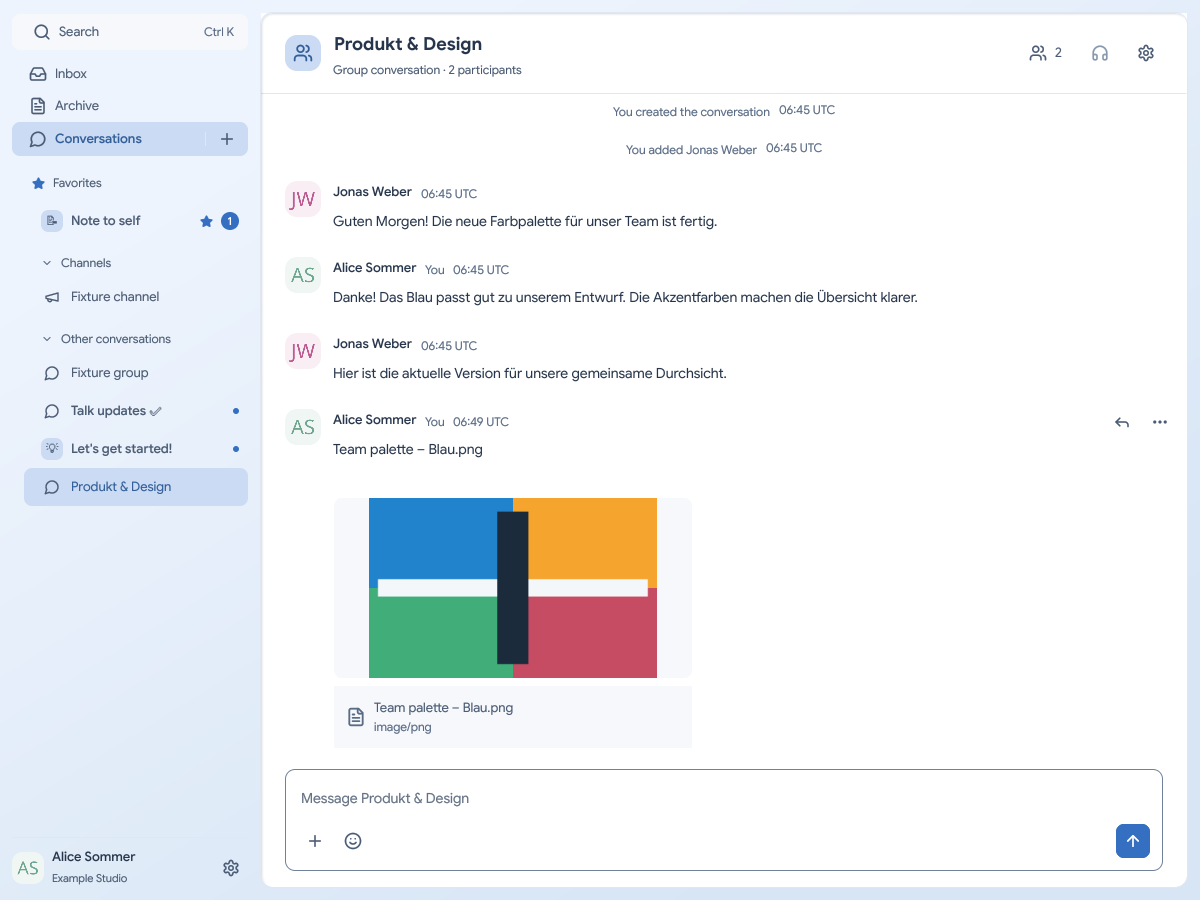
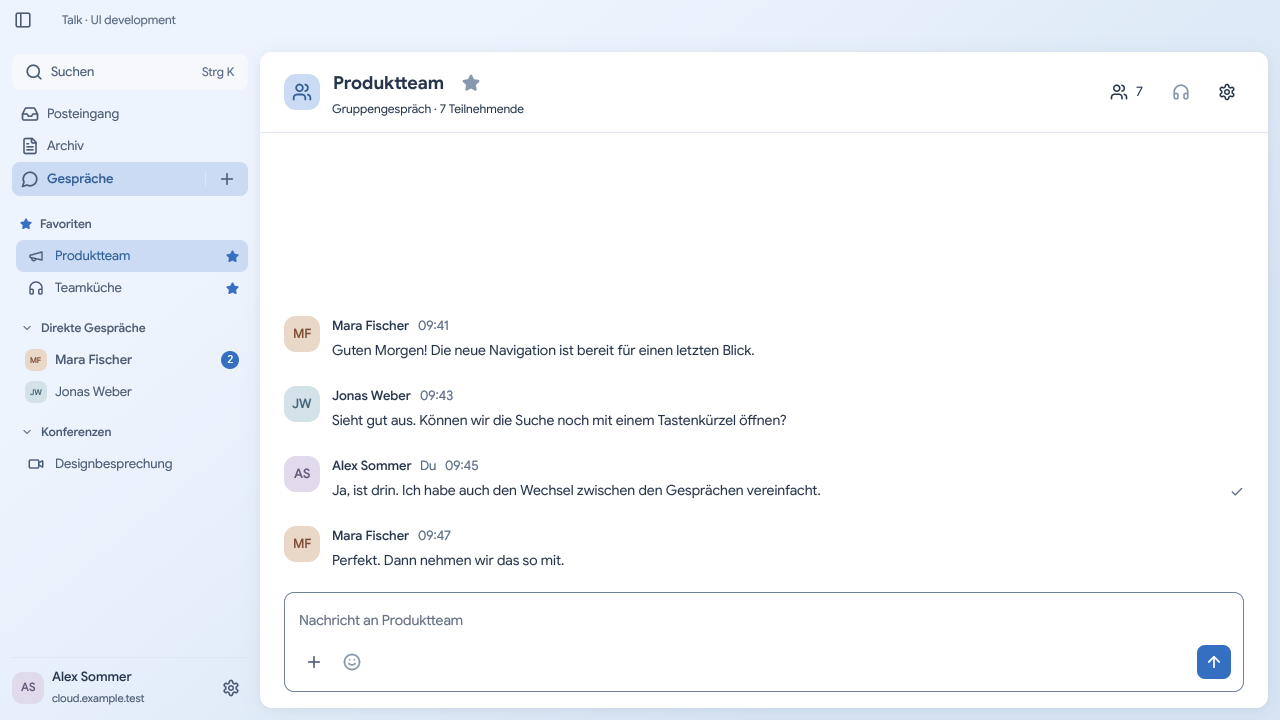
Refresh native screenshot and harden fresh-environment checks

diff --git a/tools/ui/capture.py b/tools/ui/capture.py
@@ -87,10 +87,24 @@ def capture(args, before_runtime_cleanup=None):
                             raise RuntimeError(f"No visible native window: {label}")
                         first_window_ms = round((time.monotonic() - started) * 1000, 2)
                         run(["xdotool", "windowfocus", "--sync", xid], env)
+                        run(["xdotool", "windowmove", "--sync", xid, "0", "0"], env)
                         run(["xdotool", "windowsize", "--sync", xid, str(args.width), str(args.height)], env)
-                        time.sleep(2.0)
+                        run(["xdotool", "mousemove", "--sync", "1590", "1190"], env)
                         screenshot = out / f"{label}.png"
-                        run(["import", "-window", xid, str(screenshot)], env)
+                        # A visible X11 window can precede its first Vulkan frame,
+                        # especially during cold shader compilation on software GPUs.
+                        # Never report an empty framebuffer as a successful smoke test.
+                        paint_deadline = time.monotonic() + 30
+                        while True:
+                            if app.poll() is not None:
+                                raise RuntimeError(f"Native app exited before painting: {label}")
+                            run(["import", "-window", xid, str(screenshot)], env)
+                            colors = int(run(["identify", "-format", "%k", str(screenshot)], env).stdout)
+                            if colors > 16:
+                                break
+                            if time.monotonic() >= paint_deadline:
+                                raise RuntimeError(f"Native window stayed blank: {label}")
+                            time.sleep(0.5)
                         status = Path(f"/proc/{app.pid}/status").read_text()
                         memory = {line.split(":", 1)[0]: line.split(":", 1)[1].strip() for line in status.splitlines() if line.startswith(("VmRSS:", "VmHWM:", "Threads:"))}
                         manifest["captures"].append({"scenario": scenario, "appearance": appearance, "theme": theme, "image": screenshot.name,

diff --git a/tests/contracts/run_boundary_fixtures.py b/tests/contracts/run_boundary_fixtures.py
@@ -51,7 +51,10 @@ with tempfile.TemporaryDirectory(prefix='identity-ui-fixtures-') as temporary:
     env = dict(os.environ, CARGO_TARGET_DIR=str(scratch / 'target'), PYTHONDONTWRITEBYTECODE='1', CARGO_TERM_COLOR='never')
 
     def run(root, argv):
-        result = subprocess.run(argv, cwd=root, env=env, capture_output=True, text=True, timeout=180)
+        # The positive consumer builds the adapter graph from a cold target directory.
+        # Allow that compilation on ordinary hosted runners; lexical checks stay short.
+        timeout = 600 if argv[0] == "cargo" else 60
+        result = subprocess.run(argv, cwd=root, env=env, capture_output=True, text=True, timeout=timeout)
         return {
             'argv': argv, 'exit_code': result.returncode,
             'stdout': result.stdout.replace(str(scratch), '[fixture-temp]').replace(str(candidate), '[candidate]'),

diff --git a/apps/desktop/src/settings/permissions/screen.rs b/apps/desktop/src/settings/permissions/screen.rs
@@ -19,7 +19,7 @@ pub(super) fn check(
 
 async fn read_version() -> Result<u32, ashpd::Error> {
     let portal = Screencast::new().await?;
-    // ashpd 0.12.3's constructor defaults some failed version reads to 1.
+    // ashpd's constructor defaults some failed version reads to 1.
     // Require a successful typed property read; constructing a proxy proves nothing.
     portal
         .get_property::<u32>("version")

diff --git a/AGENTS.md b/AGENTS.md
@@ -1,32 +1,43 @@
 # Contributor and agent rules
 
-Start with [contributing](CONTRIBUTING.md), the [product contracts](docs/product/README.md), [quality requirements](docs/quality/index.md) and [architecture](docs/architecture/README.md). Explicit user decisions govern the assigned work; surface conflicts with published contracts instead of silently weakening them.
+Read [Contributing](CONTRIBUTING.md), [development](docs/development.md) and
+[architecture](docs/architecture/README.md). Explicit user instructions govern the
+assigned task. Product and security contract changes must be deliberate and visible.
 
 ## Engineering
 
-- Give each consequential policy or resource one cohesive owner and a small interface. Keep protocol details, credential storage, persistence transactions, timers and media internals behind that owner. Extend an existing logical module before adding facade layers, generic event buses or feature-per-crate scaffolding.
-- GPUI presentation consumes bounded snapshots and typed intents/results/errors. Views perform no network, credential-store, database or media I/O and retain no secrets. Keep account, host, conversation, runtime and call scopes explicit; an obsolete completion cannot confer authority or overwrite a newer state. Media frames stay out of chat/event serialization.
-- Specify finite capacity, lifetime, cancellation and overload behavior for every queue, cache and asynchronous operation. Bound work before allocation; page and virtualize collections. Cancellation must account for ongoing effects and cleanup, not merely drop a UI handle. Preserve durable work and required state transitions under overload.
-- Model meaningful states and error outcomes explicitly. Propagate actionable failures to the owning layer with safe context; handle expected cancellation deliberately. Avoid panics on external input and unchecked indexing. Unsupported or unconfigured paths must say so; stubs cannot return success. Keep correctness assertions and required behavior intact when optimizing.
-- Prefer native OS credential stores, with an explicit durable **unencrypted**, private per-user file fallback. Normal sign-in must persist the account, as specified in [accounts](docs/product/accounts.md). Preserve access controls and honest recovery/cleanup outcomes; do not replace this requirement with mandatory application encryption or OS-only persistence.
-- Treat visible focus, keyboard behavior, text input and semantic accessibility as separate obligations. Follow [desktop requirements](docs/product/desktop-and-accessibility.md), including English, German and Spanish UI; a styled control or toolkit experiment does not establish accessible product behavior.
+- Give each consequential resource one owner and a small interface. Extend existing
+  modules before adding facade layers or generic event buses.
+- GPUI views consume bounded snapshots and typed intents. Keep network, credential,
+  database and media I/O behind their owners; retain no secrets in presentation.
+- Preserve account, conversation, runtime and call scopes. Stale completions cannot
+  restore authority or overwrite newer state. Media frames stay out of chat serialization.
+- Bound capacity, lifetime, cancellation and overload for queues, caches and asynchronous
+  work. Preserve durable intents and required state transitions under overload.
+- Model errors and unsupported states honestly; stubs cannot return success. Avoid
+  panics on external input and preserve assertions when optimizing.
+- Normal sign-in persists accounts, preferring native credential storage with an explicit
+  durable **unencrypted private-file** fallback. Preserve [account](docs/product/accounts.md)
+  and [security](docs/quality/security.md) contracts; never silently migrate providers.
+- Keep focus, keyboard behavior, text input and semantic accessibility distinct. Follow
+  [desktop requirements](docs/product/desktop-and-accessibility.md), including en/de/es UI.
 
-## Scope and verification
+## Verification and documentation
 
-- Use the [development guide](docs/development.md) for prerequisites and scoped commands. Respect the selected toolchain, dependency/feature pins and architecture checks; do not alter them to make an example pass.
-- Choose checks that exercise changed behavior and failure/lifetime invariants. Start with the smallest relevant target, use deterministic reproduction, and broaden only for shared impact or unresolved risk. Trivial reversible edits do not need tests that restate their implementation. Report exact inputs, commands, outcomes and unrun checks.
-- Keep Linux runtime tests distinct from Windows/macOS compile-only CI checks. Compilation, synthetic fixtures and software rendering do not qualify native integrations, accessibility or performance. Final user testing is reserved for the final prepared candidate after the assigned agent-side work; do not ask the user to test intermediate increments.
-- Use proportionate checks and follow the explicit task owner’s review scope under the [verification contract](docs/quality/verification.md). Routine documentation or settings work does not automatically require another review loop. Author checks alone do not authorize product/release claims. Handoffs identify changed behavior, source identity, affected contracts, evidence limits and remaining work.
+Use the pinned toolchain, exact dependencies and lockfile. Choose checks that exercise
+changed behavior and failure/lifetime invariants. Linux runtime checks and Windows/macOS
+compilation prove different things; neither synthetic fixtures nor compilation establish
+native integration, interoperability or performance. Report actual checks and limitations.
+Do not request intermediate user testing; prepare the final candidate first.
 
-## Documentation and public hygiene
-
-- When behavior changes, maintain the relevant user/developer contracts. Specifications describe intended behavior and acceptance; high-level architecture describes responsibilities, boundaries and data flow. Record concise actual limitations in [known limitations](docs/limitations.md), without duplicating a project diary in contributor rules.
-- Put nonobvious implementation reasons, invariants and tradeoffs beside the relevant code or in its doc comments. Preserve useful API documentation and comments; avoid separate implementation-decision documents and mandatory status/ADR churn for every internal detail. Keep needed historical evidence in durable private storage outside normal contributor documentation; public docs are not a task ledger or report archive.
-- Release notes list only changes since the previous version. Link to the separate installation guide and known limitations instead of repeating setup steps, the full feature inventory or outstanding work.
-- Write public documentation in English. Use NextCloud as the project brand and describe the client in its team/company context. Preserve the project's [EUPL-1.2 license](LICENSE) and third-party terms/provenance. Keep secrets, production data, private environment paths and sensitive raw traces out of public artifacts; use synthetic fixtures and follow [SECURITY.md](SECURITY.md).
+Keep documentation in English, use NextCloud as the project brand and maintain
+[known limitations](docs/limitations.md) when supported behavior changes. Put implementation
+rationale beside code and task history in issues, PRs or Git history. Do not add status
+ledgers, per-task reports or mandatory ADR churn. Preserve EUPL-1.2, third-party licenses
+and provenance. Keep secrets, production data and private environment paths out of public
+artifacts. See [SECURITY.md](SECURITY.md) for disclosure.
 
 ## Project skills
 
-- `gpui-guidelines`: use when implementing or reviewing GPUI lifetime, rendering, collections, focus and input behavior.
-- `gpui-test`: use when designing or diagnosing deterministic GPUI tests, scheduler seeds, timers and pending work.
-- `gpui-bench`: use when designing or interpreting bounded GPUI performance measurements and comparisons.
+Use `gpui-guidelines` for GPUI lifetime/rendering/focus/input work, `gpui-test` for
+deterministic GPUI test diagnosis and `gpui-bench` for performance measurements.

diff --git a/tests/lab/README.md b/tests/lab/README.md
@@ -11,7 +11,7 @@ This harness installs two pinned Nextcloud/Talk pairs and exercises API smoke sc
 
 ## Persistent development backend
 
-Use [the development lab guide](../../docs/backend-lab.md) and `python3 tests/lab/dev.py --help` when a browser, an agent or a future native client needs the server to remain available. `up` provisions one pinned family, seeds the proven smoke scenarios and leaves it running; `status`, `check`, `login-start`, `login-poll`, `reset` and `stop` are separate invocations with an explicit private state path. The workstation-only `access.py` opens a verified SSH tunnel bound to IPv4 loopback; Docker retains the unpublished internal network. The guide covers URL/trusted-domain configuration, private credential files and cleanup.
+Use [the development lab guide](../../docs/backend-lab.md) and `python3 tests/lab/dev.py --help` when a browser or native client needs the server to remain available. `up` provisions one pinned family, seeds the proven smoke scenarios and leaves it running; `status`, `check`, `login-start`, `login-poll`, `reset` and `stop` are separate invocations with an explicit private state path. The workstation-only `access.py` opens a verified SSH tunnel bound to IPv4 loopback; Docker retains the unpublished internal network. The guide covers URL/trusted-domain configuration, private credential files and cleanup.
 
 The following one-shot smoke interface retains its auto-cleanup behavior and unpublished internal bridge. Historical runs apply to their recorded harness hashes; the development extension requires new evidence.
 
@@ -19,16 +19,11 @@ The following one-shot smoke interface retains its auto-cleanup behavior and unp
 
 Prerequisites: a disposable Linux amd64 VM with Python 3.11+ and Docker Engine 28+; Internet access for the pinned image/package downloads. Runtime secrets live in restricted `/run` directories, which should be tmpfs. Allow approximately 4 GiB RAM, 10 GiB free disk and a 30-minute execution budget. The two profiles run sequentially; this is a functional fixture, not a production deployment or performance benchmark.
 
-Use the project/session's existing agent-dev-box environment. Set `LAB_SESSION` to that real session ID in your terminal; it is an identifier, not a credential. Do not use a new child session. From the bound workspace containing this repository:
+Run from the repository root on an isolated Linux Docker host:
 
 ```sh
-agent-dev-box up --session "$LAB_SESSION" --size small
-agent-dev-box sync --session "$LAB_SESSION"
-agent-dev-box exec --session "$LAB_SESSION" -- bash -lc \
-  'cd nextcloud-modern-talk && sh tests/lab/reprovision.sh --output /tmp/nmt-lab-evidence'
+sh tests/lab/reprovision.sh --output /tmp/nmt-lab-evidence
 ```
-
-If the session is bound to the repository itself, omit the remote `cd nextcloud-modern-talk`. `up` rejects a different workspace for an already bound session; retain the session's binding. For a previously hibernated session, use `resume`. Source changes must be local and synced; sync excludes `.git`, does not delete stale remote files and does not copy remote evidence back.
 
 The output directory must be empty and outside the repository. Optional flags: `--profile r34`, `--profile r35`, `--budget-seconds 1800`. Each run creates new independent credentials and data. Rerunning is reprovisioning, not an upgrade/downgrade or an attempt to reuse a database. No credential environment variables or production account are required. This suite is manual/opt-in and must not depend on repository secrets in untrusted pull-request CI.
 
@@ -60,25 +55,14 @@ Official release-specific protocol sources: [Talk24 conversation](https://github
 
 ## Evidence and failure recovery
 
-`report.json` records run timestamps, executing source-file SHA-256s, artifact pins and observed identities, operations/statuses, semantic assertions, errors, and cleanup. The VM copy has no Git history, so the manager must bind the hashes to the final source commit before using it as acceptance evidence. Copy only this allowlisted report after review. Never publish a full container inspection, environment/config dump, raw server log, `/run` directory, database, cookie jar or unreviewed snapshot.
+`report.json` records run timestamps, executing source-file SHA-256s, artifact pins and observed identities, operations/statuses, semantic assertions, errors, and cleanup. Record the source commit alongside the report. Copy only this allowlisted report after review. Never publish a full container inspection, environment/config dump, raw server log, `/run` directory, database, cookie jar or unreviewed snapshot.
 
-Normal success, failure, SIGINT and SIGTERM attempt cleanup. The recovery state location is printed at startup; it contains resource identities, no credential values. After a killed runner or interrupted host connection, inspect the existing dev-box job before starting another. Recover with:
+Normal success, failure, SIGINT and SIGTERM attempt cleanup. The recovery state location is printed at startup; it contains resource identities, no credential values. After a killed runner, inspect its recorded resources before starting another. Recover with:
 
 ```sh
-agent-dev-box exec --session "$LAB_SESSION" -- bash -lc \
-  'cd nextcloud-modern-talk && sh tests/lab/cleanup.sh --state /run/nmtlab-RUN/state.json'
+sh tests/lab/cleanup.sh --state /run/nmtlab-RUN/state.json
 ```
 
 Replace the placeholder with that run's printed state location. Cleanup checks exact ownership labels, removes only its recorded containers/networks/volumes, checks for remaining run-labelled resources, then removes its runtime directory. It never invokes global prune. Failed cleanup retains the recovery record and fails the run. Downloaded packages and passwords are removed before hibernation; immutable public image cache layers may remain. No secret-bearing lab snapshot should be retained.
-
-After inspecting cleanup and retrieving sanitized evidence:
-
-```sh
-agent-dev-box stats --session "$LAB_SESSION" --json
-agent-dev-box hibernate --session "$LAB_SESSION"
-agent-dev-box status --session "$LAB_SESSION"
-```
-
-Wait for `phase: hibernated`; record snapshot and estimated cost separately. Hibernation is not a substitute for data cleanup. If other work explicitly owns the same running VM, coordinate that lifecycle with its owner.
 
 Browser authorization, revoked-credential/callback races, guest/file/federation workflows, most preset restrictions, Keychain fallback, GPUI, accessibility, WebRTC/audio/video/screen sharing, E2EE, HPB/TURN, recording, native performance and full parity remain **not tested here**. HPB/TURN artifacts are not pinned or provisioned by this harness. No native client or full compatibility pass is implied by these harness commands.

diff --git a/SECURITY.md b/SECURITY.md
@@ -1,43 +1,23 @@
 # Security policy
 
-This repository contains an unfinished native implementation and its specifications.
-No supported product release or completed security audit is established here. Consult
-[known limitations](docs/limitations.md) for implemented behavior and limitations;
-[the security requirements](docs/quality/security.md) describe target contracts,
-not delivered guarantees. A coarse security review is not a penetration test or
-certification.
+NextCloud Modern Talk is alpha software. Security fixes target the current `main`
+branch and latest alpha; older alpha releases have no separate maintenance branch.
+No completed security audit is claimed. See [known limitations](docs/limitations.md).
 
-## Reporting privately
+## Report a vulnerability
 
-**Private reporting status: enabled and verified on 2026-10-18.** During
-repository setup, GitHub's private-vulnerability-reporting API confirmed
-`enabled: true` for `adapt2move/nextcloud-modern-talk` after enablement.
-This confirms the repository setting; no monitoring arrangement, response SLA
-or promise of a human response is established by this work.
+Use [GitHub private vulnerability reporting](https://github.com/adapt2move/nextcloud-modern-talk/security/advisories/new).
+Private reporting is enabled for this repository. Do not disclose exploitable
+vulnerabilities in public issues. If the private form is unavailable, wait until a
+private reporting route is available before sending sensitive details.
 
-Use **Security → Report a vulnerability** on the
-[repository security page](https://github.com/adapt2move/nextcloud-modern-talk/security).
-Confirm that GitHub offers a private report before entering details. If the route
-becomes unavailable, do not post vulnerability details in a public issue; no
-alternative private address is verified here.
+Include the affected version or commit, platform, impact and a minimal synthetic
+reproduction. Remove tokens, production credentials, real conversations and private
+server details. There is no guaranteed response time.
 
-In a private report, provide the affected commit/version, platform,
-impact, relevant requirement/module IDs and a minimal synthetic reproduction.
-Use disposable accounts and redact tokens, real conversations and private host
-details even in private reports. Maintainers do not need production credentials
-to receive a report.
+## Contributing security fixes
 
-## Release preparation
-
-Before a product release, maintainers must reverify GitHub private
-vulnerability reporting or another private route, confirm who monitors it, and
-update this file with the verified route, supported versions and response
-expectations. GitHub documents how to
-[enable private vulnerability reporting](https://docs.github.com/en/code-security/how-tos/report-and-fix-vulnerabilities/configure-vulnerability-reporting/configure-for-a-repository).
-Treat a route/configuration change as a reason to verify it again.
-
-Release acceptance also requires the evidence in
-[Q.SEC-11/12](docs/quality/security.md#qsec-11--dependencies-and-release-integrity)
-and [G.RELEASE](docs/quality/verification.md#qver-01--ordered-gates). Publishing
-source, a passing dependency check or a successful bootstrap build does not
-establish credential safety, media privacy or a vulnerability-free application.
+Preserve account isolation, credential cleanup, origin-bound transport and explicit
+media consent. [Security requirements](docs/quality/security.md) describe these
+contracts; passing tests alone does not establish a security guarantee. Coordinate
+disclosure and release timing through the private report.

diff --git a/docs/quality/test-servers.md b/docs/quality/test-servers.md
@@ -33,7 +33,7 @@ Sources: [Talk24 distribution metadata](https://api.github.com/repos/nextcloud-r
 
 ## Q.LAB-02 — Isolation, secrets and network scope
 
-Use the existing agent-dev-box session for future server work. First inspect its state, runtime and cost; start it only in the authorized execution phase. Use unique run labels, isolated container networks and separate disposable volumes for each server family. No production data, production credentials, host home-directory mounts, privileged containers or container access to the Docker socket. Do not reuse a newer database with an older image.
+Use a disposable Linux Docker host for server tests. Use unique run labels, isolated container networks and separate disposable volumes for each server family. No production data, production credentials, host home-directory mounts, privileged containers or container access to the Docker socket. Do not reuse a newer database with an older image.
 
 Generate independent cryptographically random ephemeral admin, test-user, app-password, database and optional TURN/signaling secrets. Deliver through supported secret-file/stdin mechanisms with restrictive permissions, outside the repository and normal workspace sync. Never put values in commands, shell tracing, committed configuration, screenshots or reports. Avoid dumping environment/configuration/container-inspection output. Redact service logs before retaining them; raw crash/media traces remain private until checked. Treat the disposable server's data volume, browser profile and macOS test Keychain items as secret-bearing artifacts too.
 
@@ -76,4 +76,4 @@ A second reviewer must be able to reconstruct the environment from pins, nonsecr
 
 Stop test clients/capture and revoke disposable app credentials where reachable; delete lab-owned browser sessions and vault entries. Remove only this run's containers, networks, volumes, temporary files/certificates, trust changes, port forwards and firewall exceptions. Verify no labelled process/listener/resource remains; never use a global destructive prune on a shared host.
 
-Delete secret-bearing snapshots/artifacts created for the run or explicitly document and protect any retained artifact. If cleanup is interrupted, report residual resource IDs privately and the remaining cost/exposure; do not claim completion. Record agent-dev-box runtime/cost after cleanup, then hibernate the session and confirm the hibernated state. Hibernation alone is not credential/data deletion. Preserve unrelated recovery snapshots and use the assigned session's lifecycle commands; never bypass a lifecycle/quota failure by deleting them.
+Delete secret-bearing snapshots/artifacts created for the run or explicitly document and protect any retained artifact. If cleanup is interrupted, report residual resource IDs privately and the remaining cost/exposure; do not claim completion. Stop disposable compute after cleanup. Stopping a host alone is not credential/data deletion; preserve unrelated resources and snapshots.

diff --git a/docs/compatibility/test-matrix.md b/docs/compatibility/test-matrix.md
@@ -2,7 +2,7 @@
 
 This matrix defines compatibility scenarios and required profiles. Results belong to evidence for an exact client, server and platform; listing a scenario here establishes neither a pass nor an unrun result. See the [feature inventory](feature-inventory.md) and [known limitations](../limitations.md) for implemented scope and limitations. Protocol source verification is recorded separately in [baselines and sources](baselines-and-sources.md). Follow the [quality verification process](../quality/verification.md), [security contract](../quality/security.md), and [test-server guidance](../quality/test-servers.md).
 
-Functional checks use disposable NextCloud/Talk servers with synthetic accounts/content, reproducible artifacts, minimal exposure, and teardown. VM builds/services use agent-dev-box; actual macOS Keychain, VoiceOver, capture permissions, and devices require an appropriate macOS environment. A Linux VM or mock adapter cannot qualify those platform behaviors.
+Functional checks use disposable NextCloud/Talk servers with synthetic accounts/content, reproducible artifacts, minimal exposure, and teardown. Builds and services use an isolated development environment; actual macOS Keychain, VoiceOver, capture permissions, and devices require an appropriate macOS environment. A Linux VM or mock adapter cannot qualify those platform behaviors.
 
 ## Required environments
 
@@ -175,6 +175,6 @@ For classified retention, separately vary message expiry, configured room retent
 
 ## Evidence and release decision
 
-For each scenario record profile(s), test class (fixture/native adapter/live integration/manual accessibility), client revision, test implementation reference, result (`not run`, `pass`, `fail`, `blocked`, or justified `not applicable`), redacted artifacts, unresolved findings, and reviewer. Use the quality acceptance report template rather than overwriting this planned matrix with an unqualified checkmark.
+For each scenario record profile(s), test class (fixture/native adapter/live integration/manual accessibility), client revision, test implementation reference, result (`not run`, `pass`, `fail`, `blocked`, or justified `not applicable`), redacted artifacts, unresolved findings, and reviewer. Keep detailed run results in the relevant issue or PR; do not replace this planned matrix with unqualified checkmarks.
 
 P1 requires applicable CT-001–009/025–028 safety paths; P2 additionally requires CT-011–016/018–019 for every call policy the client will encounter, including correct blocking of unsupported combinations. P3/P4 add their feature scenarios and regress the affected earlier cases. A deferred feature's restrictive policy still needs testing when its data can reach an earlier phase. Publication of a reviewed documentation/bootstrap repository does not require pretending these runtime tests ran; shipping or claiming a working feature does require its evidence.

diff --git a/README.md b/README.md
@@ -6,11 +6,11 @@ The target server families are **NextCloud 34 / Talk 24** and **NextCloud 35 / T
 
 The alpha includes browser-based account connection, conversation settings, messaging, previews, polls, background activity, audio/video calls and automatic update downloads. The macOS DMG includes its media runtime; no separate GStreamer installation is needed. The native UI uses Lucide icons, contextual chat actions and subtle transitions that respect Reduce Motion. Download an [alpha release](https://github.com/adapt2move/nextcloud-modern-talk/releases) and follow the [installation guide](docs/install.md), including the macOS first-launch approval. See the [changelog](docs/changelog.md) for recent changes and [known limitations](docs/limitations.md) for remaining gaps.
 
-![Native chat with favorites, image previews and fictional team messages](docs/assets/chat.png)
+![Native chat with grouped navigation, favorites and fictional team messages](docs/assets/chat.png)
 
-The untouched screenshot shows the native Linux app connected to a disposable
-NextCloud Talk server, with an English interface, fictional team members and
-German messages. The image card is an actual shared attachment.
+Native Linux/X11 screenshot of the current app in light appearance, using the
+German interface and fictional team messages (`--ui-scenario chat`). This
+standalone development scenario is not connected to a server.
 
 ## Contribute
 

diff --git a/docs/development.md b/docs/development.md
@@ -118,6 +118,16 @@ task dev -- --ui-scenario chat --ui-preserve-preferences
 
 This opens a native GPUI window without server login or capture. Launch without `--ui-scenario` for ordinary browser login and restored accounts. Previews, focus/keyboard checks and appearance fixtures do not establish integrated behavior. See [native UI boundaries](design/README.md). Keep `--licenses` output and installed notices with packages.
 
+To refresh the README image from the compiled Linux app:
+
+```sh
+python3 tools/ui/capture.py --binary target/debug/talk-desktop \
+  --output /tmp/talk-readme --scenarios chat --width 1280 --height 720
+```
+
+Inspect `chat-light-blue.png` before copying it to `docs/assets/chat.png`.
+Keep the README caption accurate about the platform and synthetic data.
+
 Use `login-server-denied`, `chat-server-denied`, `chat-server-unavailable` and `accounts-server-denied` to inspect connection-error copy with fictional data.
 
 Use `chat-send-pending` for the fictional pending-send presentation, repeated Enter and aligned delivery indicators on grouped, edited and wrapped messages. It deliberately leaves the send unconfirmed and does not qualify transport admission.

diff --git a/docs/backend-lab.md b/docs/backend-lab.md
@@ -20,7 +20,7 @@ Runtime directories are private (0700, files 0600), outside source/sync. Keep th
 
 ## Reach a remote lab
 
-The server uses an unpublished internal Docker network. From the workstation running the assigned agent-dev-box session, use its verified SSH identity/host key:
+The server uses an unpublished internal Docker network. For a remote Docker host, use its verified SSH identity and host key:
 
 ```sh
 python3 tests/lab/access.py connect --session "$LAB_SESSION" \
